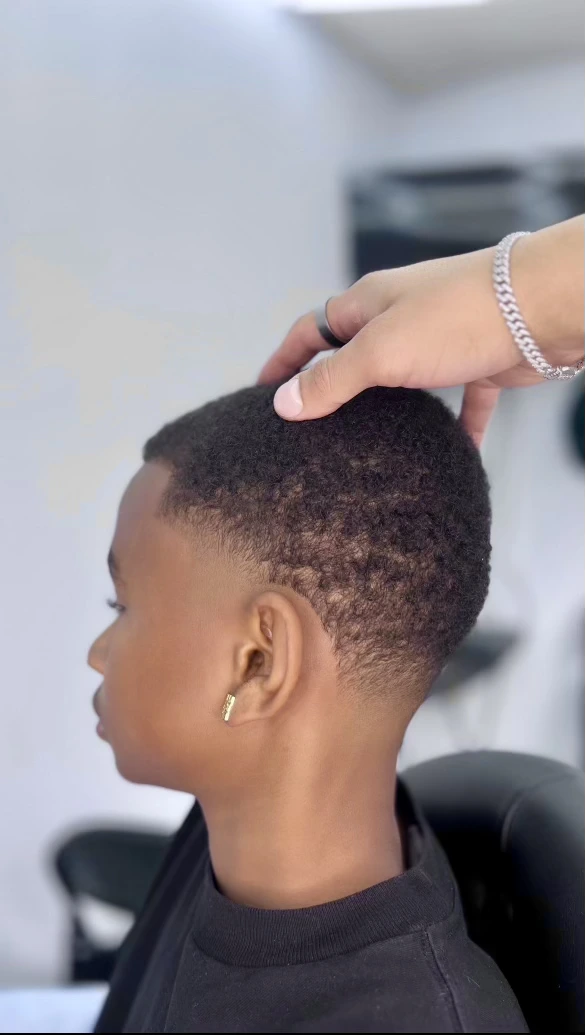
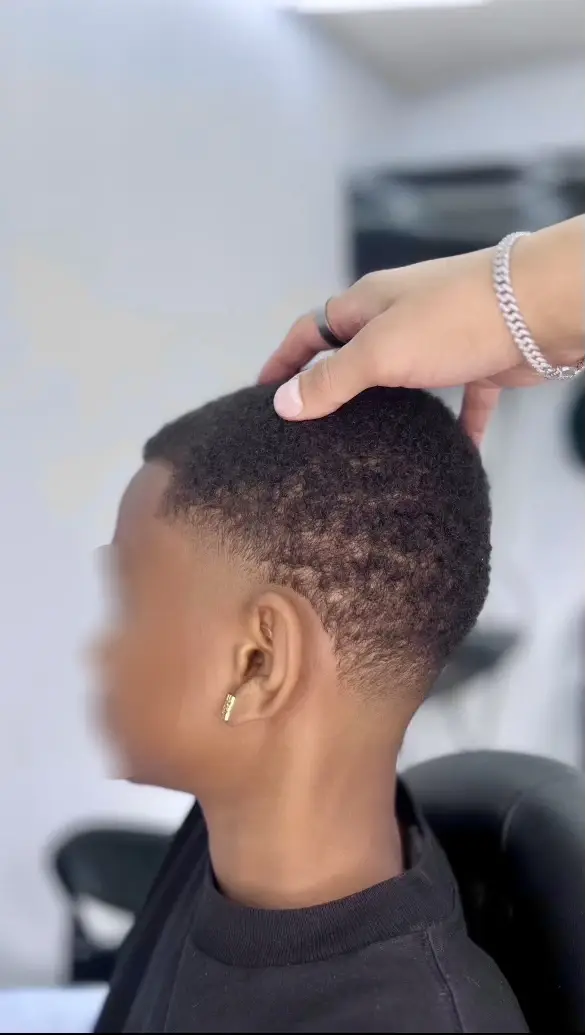
Changed the hover and active properties of the service items. Blurred faces of photos of kids in the gallery section.

Changed region(s): [[0.1231, 0.5256, 0.2154, 0.7729]]

diff --git a/src/styles/3_index.css b/src/styles/3_index.css
@@ -25,9 +25,16 @@
     align-items: center;
 }
 
-.service-item:hover {
-    background: var(--black-lighter);
-    padding-left: 2rem;
+.service-item:active {
+    opacity: 0.7;
+    transform: scale(0.98);
+}
+
+@media(hover:hover) {
+    .service-item:hover {
+        background: var(--black-lighter);
+        padding-left: 2rem;
+    }
 }
 
 .service-name {
